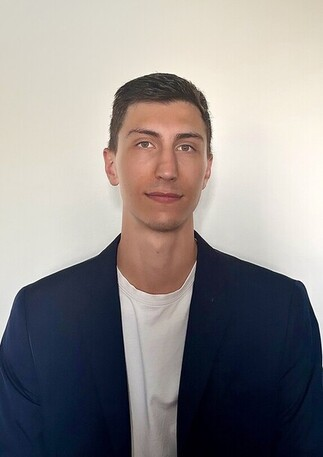
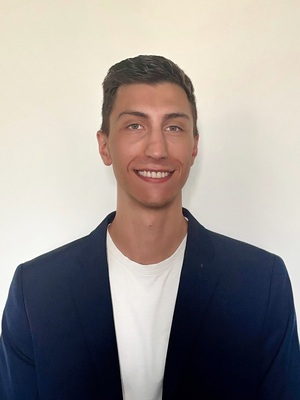
change readme, change photo, align left on phone, minor changes, some text change

diff --git a/my-cv-frontend/index.html b/my-cv-frontend/index.html
@@ -48,7 +48,7 @@
     <link rel="preconnect" href="https://fonts.googleapis.com">
     <link rel="preconnect" href="https://fonts.gstatic.com" crossorigin>
     <link href="https://fonts.googleapis.com/css2?family=Inter:wght@400;500;600;700&display=swap" rel="stylesheet">    
-    <link rel="stylesheet" href="https://cdnjs.cloudflare.com/ajax/libs/font-awesome/6.7.2/css/all.min.css" xintegrity="sha512-Evv84Mr4kqVGRNSgIGL/F/aIDqQb7xQ2vcrdIwxfjThSH8CSR7PBEakCr51Ck+w+/U6swU2Im1vVX0SVk9ABhg==" crossorigin="anonymous" referrerpolicy="no-referrer" />
+    <link rel="stylesheet" href="https://cdnjs.cloudflare.com/ajax/libs/font-awesome/6.7.2/css/all.min.css" integrity="sha512-Evv84Mr4kqVGRNSgIGL/F/aIDqQb7xQ2vcrdIwxfjThSH8CSR7PBEakCr51Ck+w+/U6swU2Im1vVX0SVk9ABhg==" crossorigin="anonymous" referrerpolicy="no-referrer" />
     <link rel="stylesheet" href="style.css">
 </head>
 <body class="antialiased">
@@ -377,7 +377,7 @@
             <div class="card flex flex-col gap-6">
                 <div>
                     <h4 class="font-medium text-gray-700 mb-2">Work Philosophy 💻</h4>
-                    <p class="text-gray-600 text-justify">I always step back from my work and look for ways to improve it because I am always striving to be better. I prefer working independently but I also like to get advice from experienced people. I am always curious to add new technologies and skills to my stack.</p>
+                    <p class="text-gray-600 text-justify">I am committed to continuous improvement, regularly reviewing my work to identify and implement enhancements. I have a strong drive to investigate, whether through testing new tools or proactively identifying bugs, finding great satisfaction in problem-solving. While adept at working autonomously, I highly value collaboration and insights from experienced colleagues. I am eager to expand my technical expertise and integrate new technologies into my skillset.</p>
                 </div>
                 <div>
                     <div class="mb-4">
@@ -402,11 +402,11 @@
             <div class="card max-w-2xl mx-auto">
                 <form id="contact-form" class="space-y-6">
                     <div>
-                        <label for="name" class="block text-gray-700 text-sm font-medium mb-2">Your Name</label>
+                        <label for="name" class="block text-gray-700 text-sm font-medium mb-2">Your Name <span class="accent-orange">*</span></label>
                         <input type="text" id="name" name="name" class="form-input" placeholder="John Doe" required>
                     </div>
                     <div>
-                        <label for="email" class="block text-gray-700 text-sm font-medium mb-2">Your Email</label>
+                        <label for="email" class="block text-gray-700 text-sm font-medium mb-2">Your Email <span class="accent-orange">*</span></label>
                         <input type="email" id="email" name="email" class="form-input" placeholder="john.doe@example.com" required>
                     </div>
                     <div class="hp_address">
@@ -418,7 +418,7 @@
                         <input type="text" id="subject" name="subject" class="form-input" placeholder="Inquiry about...">
                     </div>
                     <div>
-                        <label for="message" class="block text-gray-700 text-sm font-medium mb-2">Your Message</label>
+                        <label for="message" class="block text-gray-700 text-sm font-medium mb-2">Your Message <span class="accent-orange">*</span></label>
                         <textarea id="message" name="message" rows="6" class="form-textarea" placeholder="I'm interested in..." required></textarea>
                     </div>
                     <div class="text-center">
@@ -426,7 +426,7 @@
                             Send Message
                         </button>
                     </div>
-                    <div id="form-status-message" class="mt-4 text-center text-sm font-medium" style="display: none;"></div>
+                    <div id="form-status-message" class="mt-4 text-center text-sm font-medium hidden"></div>
                 </form>
             </div>
         </section>

diff --git a/my-cv-frontend/style.css b/my-cv-frontend/style.css
@@ -10,19 +10,15 @@
     --color-gray-600: #4B5563;
     --color-gray-700: #374151;
     --color-gray-800: #1F2937;
-    --color-green-success: #10B981; /* Exemple, si utilisé */
-    --color-red-error: #EF4444; /* Exemple, si utilisé */
 
-    /* Tailles de police */
     --font-size-base: 0.95rem;
-    --font-size-sm: 0.875rem; /* Unifié pour listes à puces et 'About Me' */
-    --font-size-md: 1rem; /* Pour hero p par défaut */
-    --font-size-lg: 1.125rem; /* Pour hero p sur md */
-    --font-size-h1: 3rem; /* md:text-5xl */
-    --font-size-h2: 1.5rem; /* text-2xl */
-    --font-size-h3: 1.125rem; /* text-lg */
+    --font-size-sm: 0.875rem;
+    --font-size-md: 1rem;
+    --font-size-lg: 1.125rem;
+    --font-size-h1: 3rem;
+    --font-size-h2: 1.5rem;
+    --font-size-h3: 1.125rem;
 
-    /* Espacements et rayons de bordure */
     --spacing-xs: 0.25rem;
     --spacing-sm: 0.5rem;
     --spacing-md: 1rem;
@@ -37,7 +33,7 @@ body {
     font-family: 'Inter', sans-serif;
     background-color: var(--color-background);
     color: var(--color-text-body);
-    font-size: var(--font-size-base); /* Taille de police de base pour le corps du texte */
+    font-size: var(--font-size-base);
 }
 
 .accent-orange {
@@ -128,7 +124,7 @@ body {
     width: 100%;
     padding: var(--spacing-md) 0;
     text-align: left;
-    border-bottom: 1px solid #E5E7EB; /* Peut-être une variable pour les bordures grises */
+    border-bottom: 1px solid #E5E7EB;
     border-radius: 0;
     margin-bottom: var(--spacing-sm);
 }
@@ -185,7 +181,7 @@ body {
     padding: 0.75rem var(--spacing-md);
     border: 1px solid var(--color-border);
     border-radius: var(--border-radius-md);
-    font-size: var(--font-size-base); /* Taille de police pour les champs de formulaire */
+    font-size: var(--font-size-base);
     line-height: 1.5;
     color: var(--color-text-secondary);
     transition: border-color 0.15s ease-in-out, box-shadow 0.15s ease-in-out;
@@ -193,10 +189,10 @@ body {
 .form-input:focus, .form-textarea:focus {
     outline: none;
     border-color: var(--color-primary);
-    box-shadow: 0 0 0 3px rgba(217, 119, 6, 0.2); /* Garde la valeur fixe pour l'opacité */
+    box-shadow: 0 0 0 3px rgba(217, 119, 6, 0.2);
 }
 
-/* Honeypot field styling to hide it from legitimate users */
+/* Honeypot */
 .hp_address {
     position: absolute;
     left: -9999px;
@@ -208,27 +204,33 @@ body {
     pointer-events: none;
 }
 
-/* Ajustements spécifiques pour le paragraphe de la section héro */
 #hero p {
-    font-size: var(--font-size-md); /* Taille de police pour le texte de la section d'introduction */
+    font-size: var(--font-size-md);
 }
-@media (min-width: 768px) { /* Applique à partir de l'écran "medium" */
+@media (min-width: 768px) {
     #hero p {
-        font-size: var(--font-size-lg); /* Taille de police plus grande pour les écrans plus larges */
+        font-size: var(--font-size-lg);
     }
 }
 
-/* Ajustements spécifiques pour les éléments de liste à puces dans les cartes */
 ul.list-disc li {
-    font-size: var(--font-size-sm); /* Taille de police réduite pour les éléments de liste à puces */
+    font-size: var(--font-size-sm);
 }
 
-/* Ajustement de la taille des paragraphes dans la section "About Me" */
+ul.list-disc {
+    text-align: left;
+}
+
+@media (min-width: 768px) {
+    ul.list-disc {
+        text-align: justify; /* Justified for medium and larger screens */
+    }
+}
+
 #about p {
-    font-size: var(--font-size-sm); /* Même taille que les bullet points */
+    font-size: var(--font-size-sm);
 }
 
-/* Custom positioning for the profile photo to better center the face */
 .profile-photo-position {
-    object-position: center 30%; /* Adjust the vertical percentage to fine-tune centering */
+    object-position: center 25%;
 }

diff --git a/README.md b/README.md
@@ -137,12 +137,12 @@ This is a one-time command to obtain your SSL certificates.
 
 ### 2. Automating Certificate Renewal
 
-Let's Encrypt certificates expire every 90 days. The renewal process should be automated. The CI/CD pipeline in this project (`.github/workflows/deploy.yml`) already adds the necessary cron job to your server automatically during deployment.
+Let's Encrypt certificates expire every 90 days. The renewal process should be automated.
 
-For manual setup or reference, the command to add to your crontab is below. This job runs daily, attempts renewal, and reloads Nginx if a new certificate was obtained.
+You can do it with a cron job. This job will run daily, attempts renewal, and reloads Nginx if a new certificate was obtained.
 
 1.  Open the crontab editor: `crontab -e`
-2.  Add the following line, replacing `/path/to/your/project` with the absolute path to your project's root directory on the VPS. It will try to renew the certificat every day at 4:17 AM.
+2.  Add the following line, replacing `/path/to/your/project` with the absolute path to your project's root directory on the VPS. It will try to renew the certificat every day at 4:17 AM (you can change it if you want).
     ```
     17 4 * * * cd /path/to/your/project && /usr/bin/docker compose run --rm certbot renew --quiet && /usr/bin/docker kill --signal=SIGHUP cv_reverse_proxy >> /path/to/your/project/cron-certbot.log 2>&1
     ```
